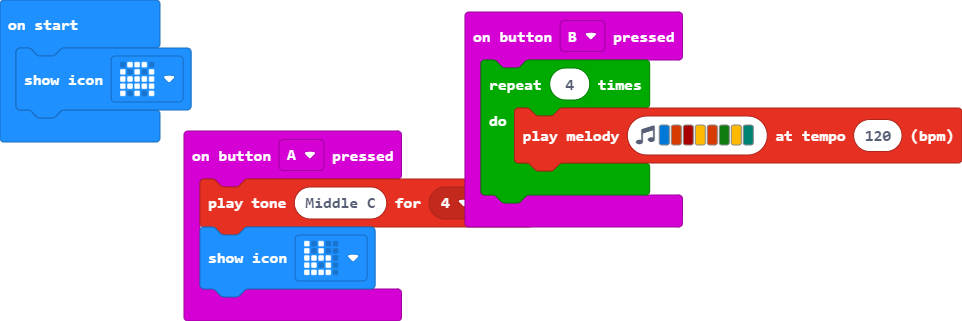
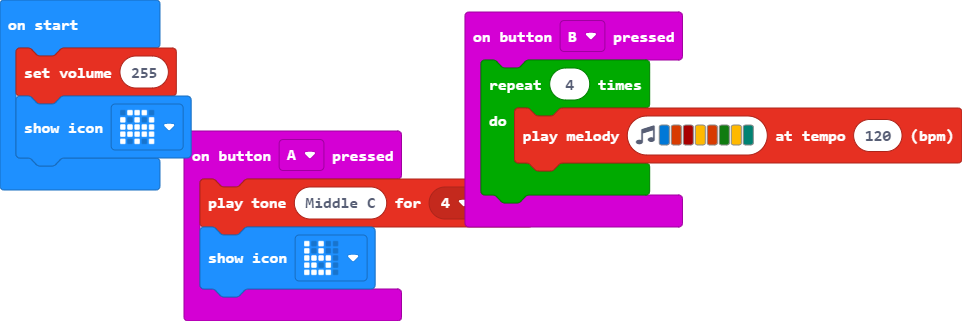
Update main.blocks, main.ts

Changed region(s): [[0.0, 0.1246, 0.2183, 0.5919]]

diff --git a/main.ts b/main.ts
@@ -7,4 +7,5 @@ input.onButtonPressed(Button.B, function () {
         music.playMelody("E B C5 A B G A F ", 120)
     }
 })
+music.setVolume(255)
 basic.showIcon(IconNames.Ghost)
